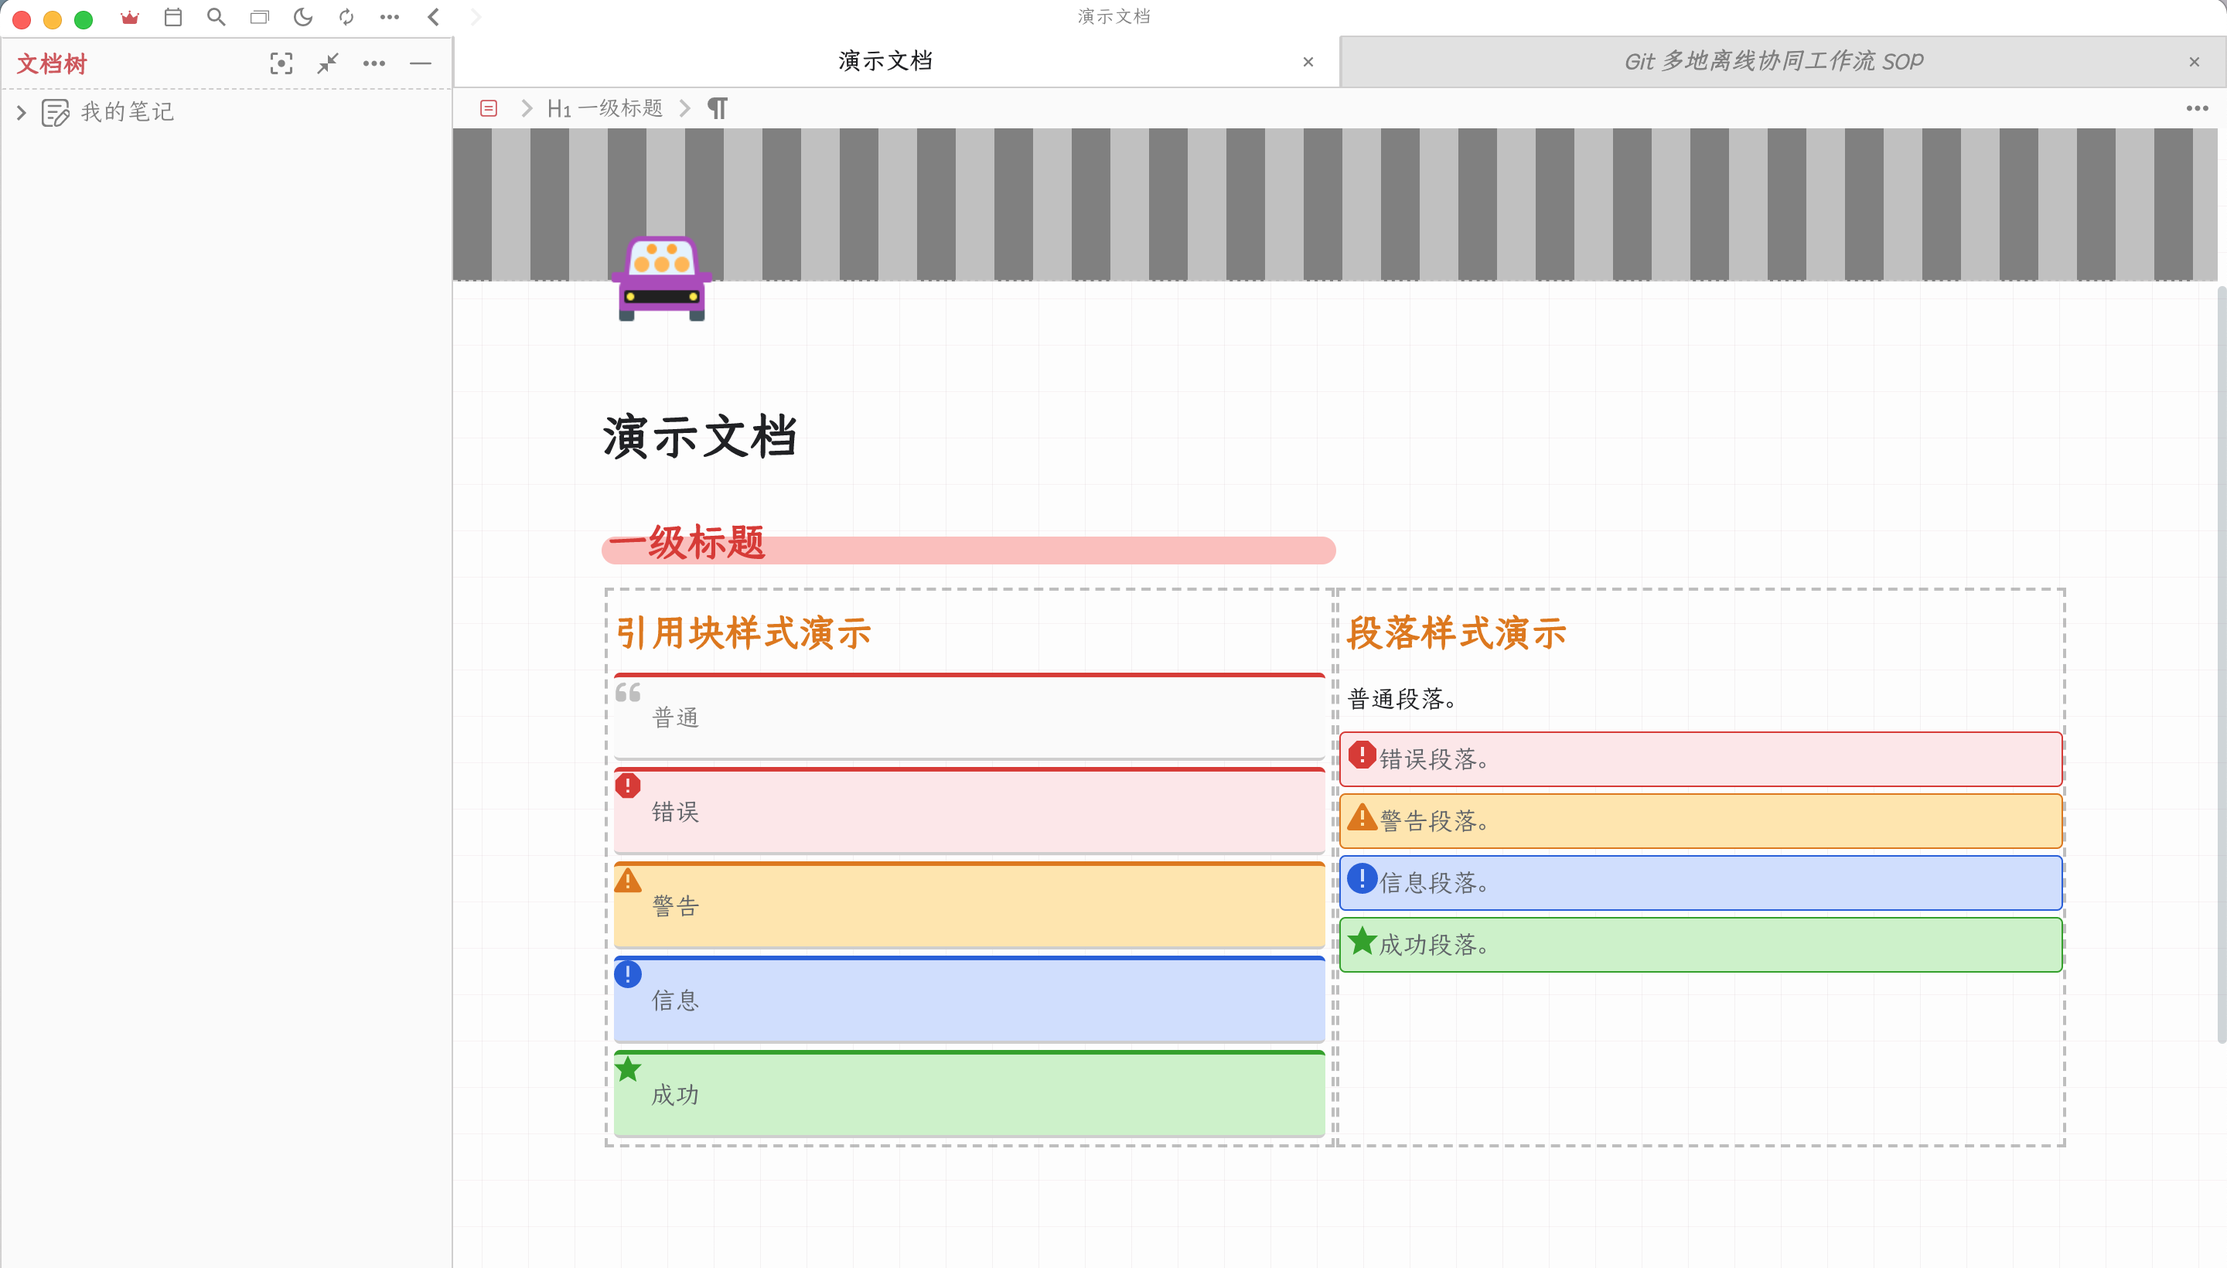
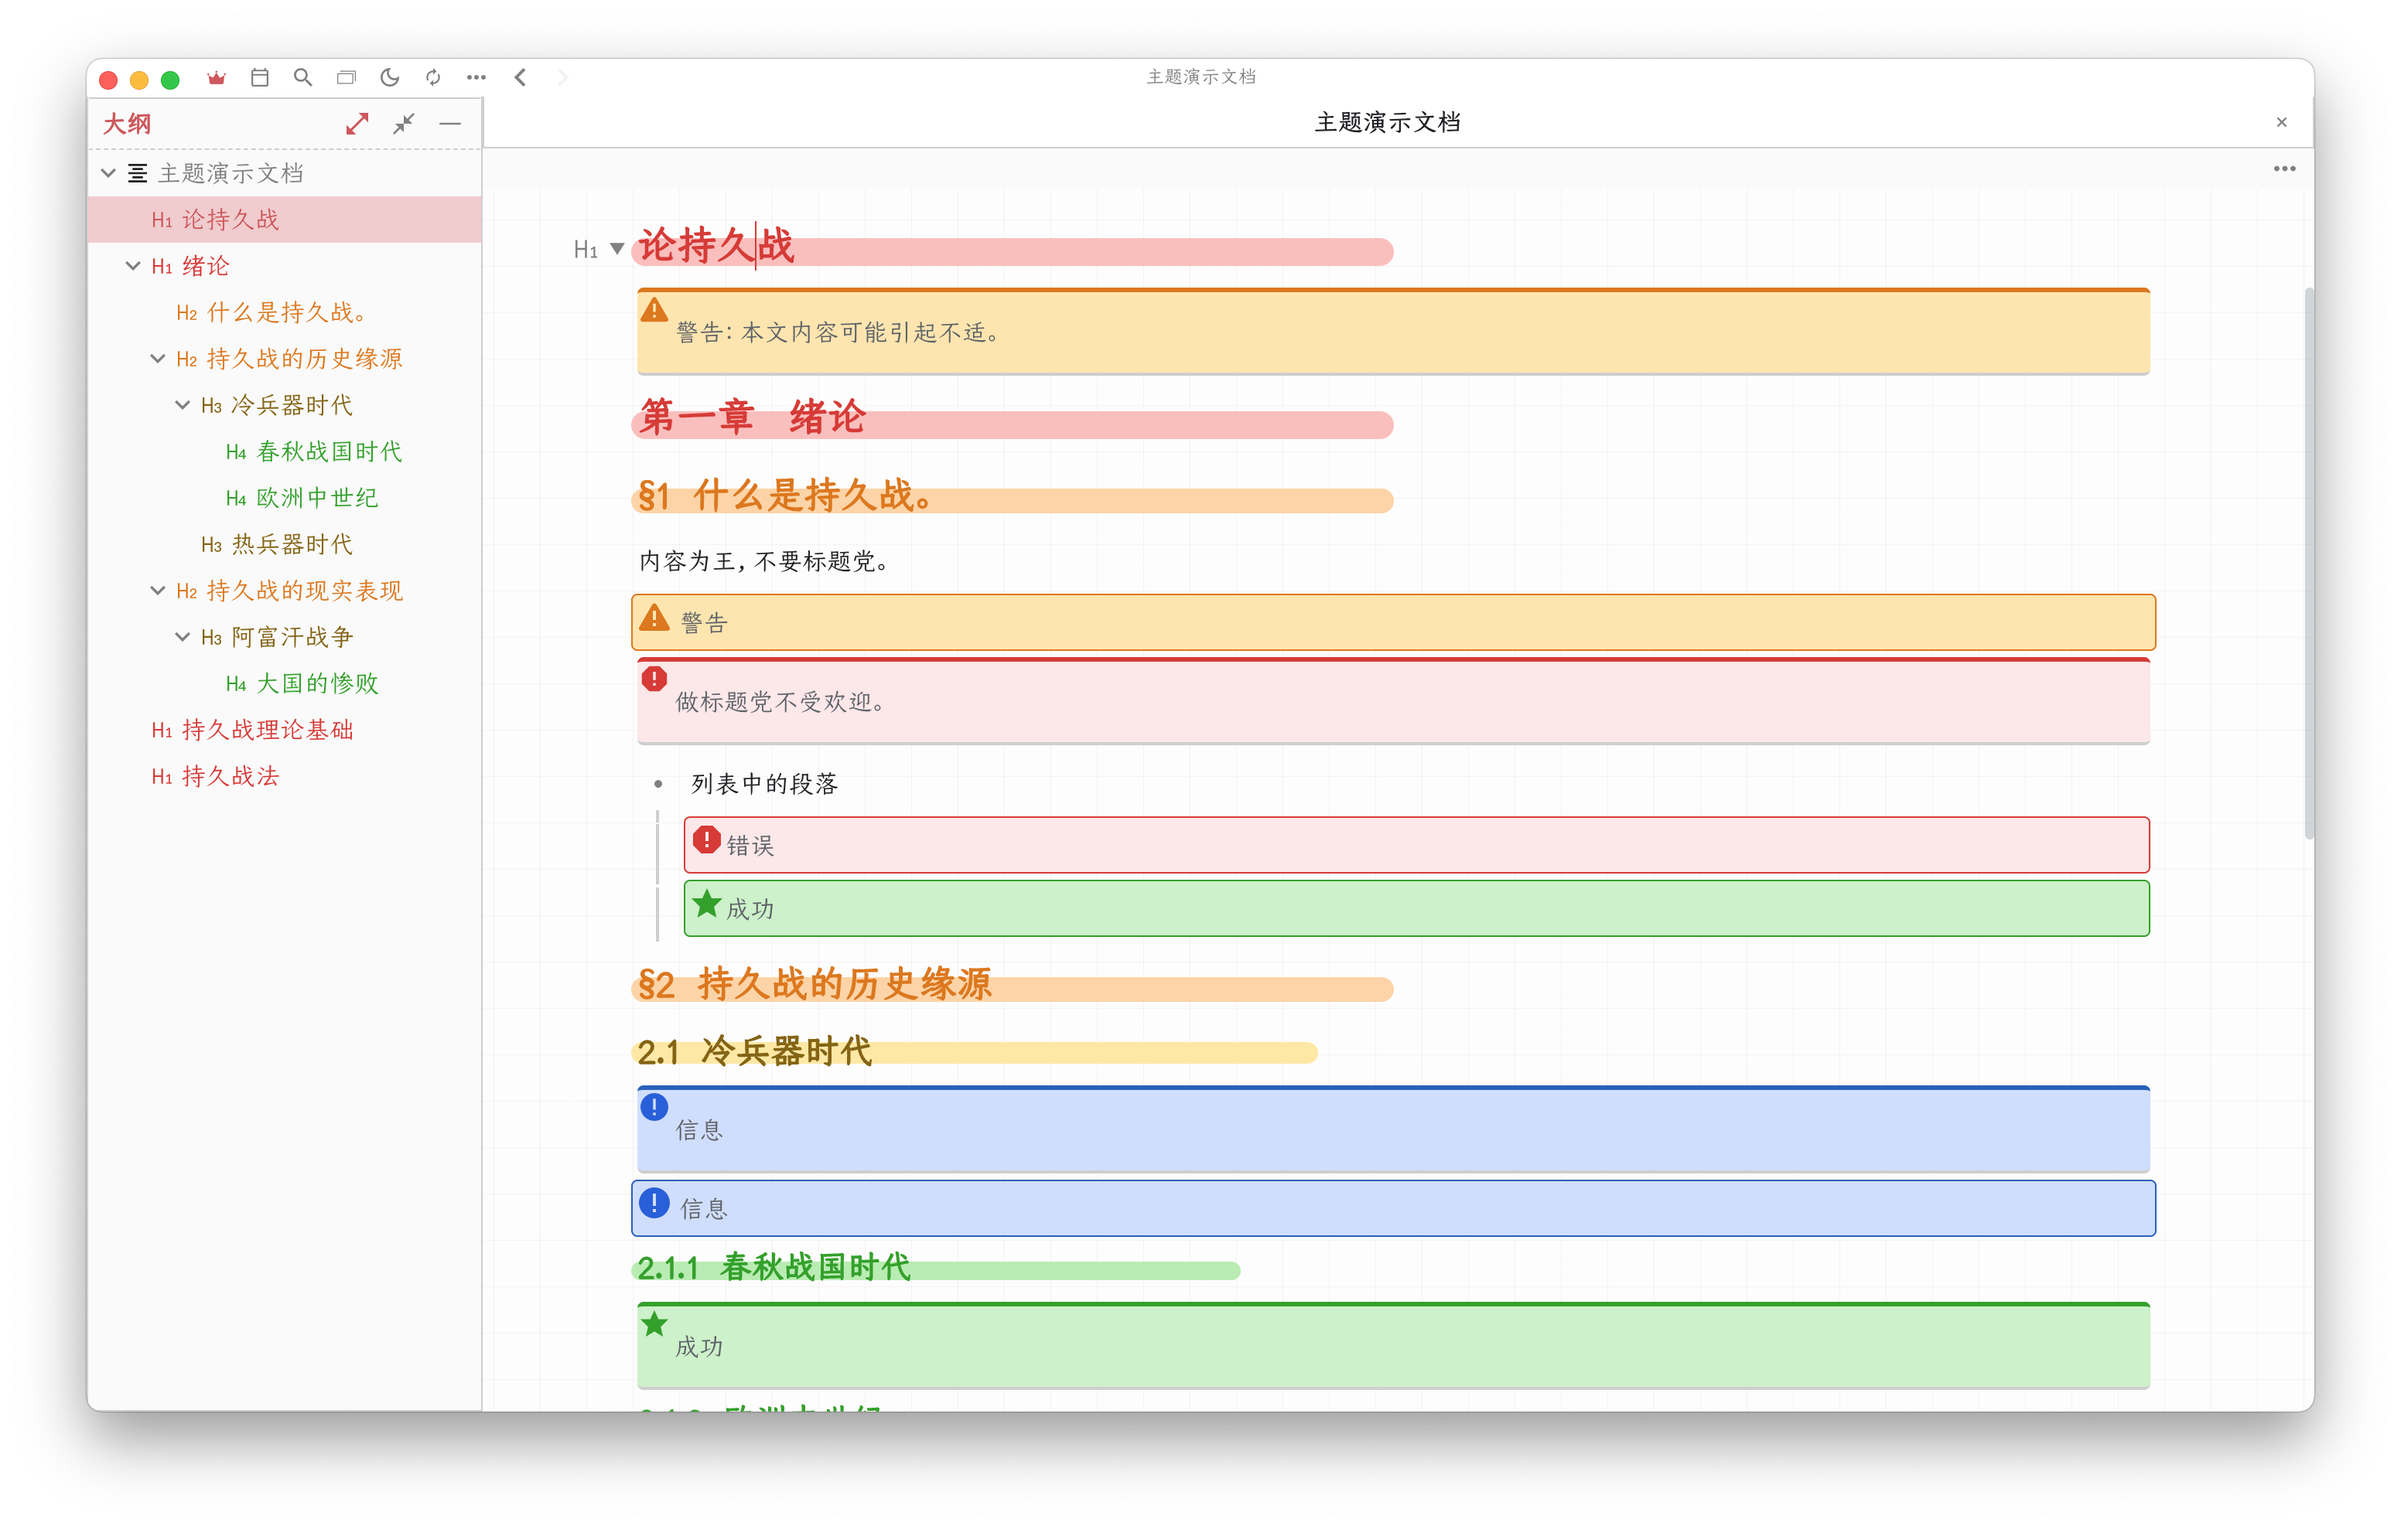
feat: add a smart header numbering scheme

diff --git a/style/auto-header-number.css b/style/auto-header-number.css
@@ -1,0 +1,55 @@
+/*
+ * 设置 counter 及其递增规则
+ */
+
+/* 注意：第一个一级标题是文档标题，所以总是从第二个一级标题以后对章进行编号 */
+.protyle-wysiwyg .h1:nth-last-child(n+1):first-child {
+  counter-reset: chapter;
+}
+.protyle-wysiwyg .h1:nth-last-child(n+1):first-child ~ .h1 {
+  counter-increment: chapter;
+}
+.protyle-wysiwyg .h1 {
+  counter-reset: s1;
+}
+.protyle-wysiwyg .h2 {
+  counter-reset: s2;
+  counter-increment: s1;
+}
+.protyle-wysiwyg .h3 {
+  counter-reset: s3;
+  counter-increment: s2;
+}
+.protyle-wysiwyg .h4 {
+  counter-increment: s3;
+}
+
+/*
+ * 设置章节标题文本
+ */
+
+/* 注意：第一个一级标题是文档标题，所以总是从第二个一级标题以后对章进行编号 */
+.protyle-wysiwyg .h1:nth-last-child(n+1):first-child ~
+.h1 >div:first-child::before {
+  content: "第" counter(chapter, cjk-ideographic) "章 ";
+  padding-right: 14px;
+  font-weight: bold;
+}
+
+.protyle-wysiwyg .h2>div:first-child::before {
+  content: "§" counter(s1) " ";
+  padding-right: 8px;
+  font-weight:bold;
+}
+
+.protyle-wysiwyg .h3>div:first-child::before {
+  content: counter(s1) "." counter(s2) " ";
+  padding-right: 8px;
+  font-weight:bold;
+}
+
+.protyle-wysiwyg .h4>div:first-child::before {
+  content: counter(s1) "." counter(s2) "." counter(s3) " ";
+  padding-right: 8px;
+  font-weight:bold;
+}

diff --git a/theme.css b/theme.css
@@ -1,4 +1,4 @@
-/* @import url(style/auto-number.css); */
+@import url(style/auto-header-number.css);
 @import url(style/h1-h6-z-index.css);
 @import url(style/link-icon.css);
 @import url(style/link-icon-color.css);

diff --git a/README.md b/README.md
@@ -3,8 +3,8 @@
 本主题以 Zhang Light 主题为模板进行定制。主要的定制包括：
 
 1. 新增了对四种卡片的特殊设置（灵感来源于 Tsundoku Light）
-2. 设置字体为「仓耳今楷03 W03」
-3. 移除了对标题的自动编号
+2. 重构了标题自动编号: 章编号从第二个H1开始，第一个H1作为文档标题
+3. 设置字体为「仓耳今楷03 W03」
 4. 移除了文档树的渐变背景
 
 ![效果预览](preview.png)
